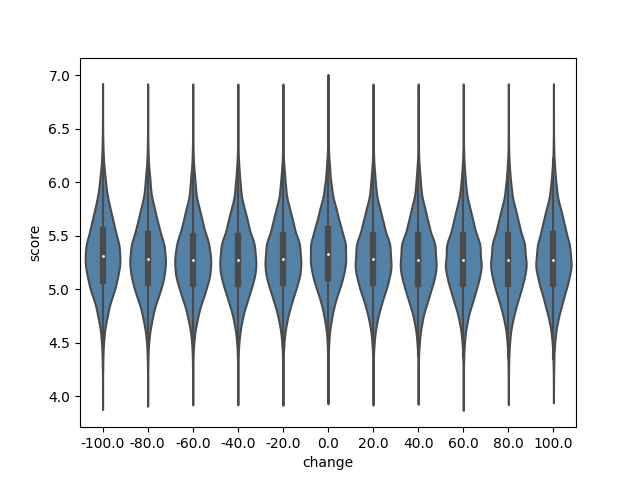
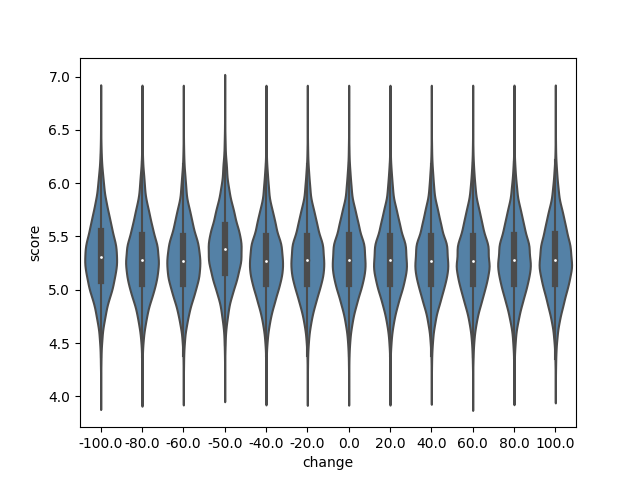
fixing defaults

diff --git a/analysis_code/NIMA_test.py b/analysis_code/NIMA_test.py
@@ -8,7 +8,7 @@ from scipy import stats
 
 sys.path.insert(0, ".")
 
-from SSMTIA.utils import mapping
+from SSMTIA.utils import mapping, parameter_range
 
 
 def histogram_distortion(distortion: str):
@@ -22,12 +22,25 @@ def histogram_distortion(distortion: str):
     plt.clf()
 
 
-def violin_distortion(distortion: str):  # FIXME defaults for shadows, hightlights...
+def violin_distortion(distortion: str):
     plt.clf()
     plot_frame = df[(df["parameter"] == distortion) | (df["parameter"] == "original")]
+    if distortion in parameter_range:
+        plot_frame.loc[plot_frame["parameter"] == "original", "change"] = parameter_range[distortion]["default"]
     sns.violinplot(data=plot_frame, x="change", y="score", color="steelblue")
     plt.savefig(f"analysis/NIMA/viol_{distortion}.png")
     plt.clf()
+
+
+def violin_changes_original(distortion: str):
+    original_frame = df[df["parameter"] == "original"]
+    results = []
+    df_index = list(original_frame.columns).index(f"{distortion}_change_strength")
+    for index, row in original_frame.iterrows():
+        for i, k in enumerate(mapping[distortion].keys()):
+            results.append({"distortion": distortion, "change_predict": k, "change_strength": row[df_index][i]})
+    results = (pd.DataFrame([val], columns=val.keys()) for val in results)
+    sns.violinplot(data=pd.concat(results, ignore_index=True), x="change_predict", y="change_strength", color="steelblue")
 
 
 df = pd.read_csv("analysis/not_uploaded/NIMA_test_dist.csv", sep=";")
